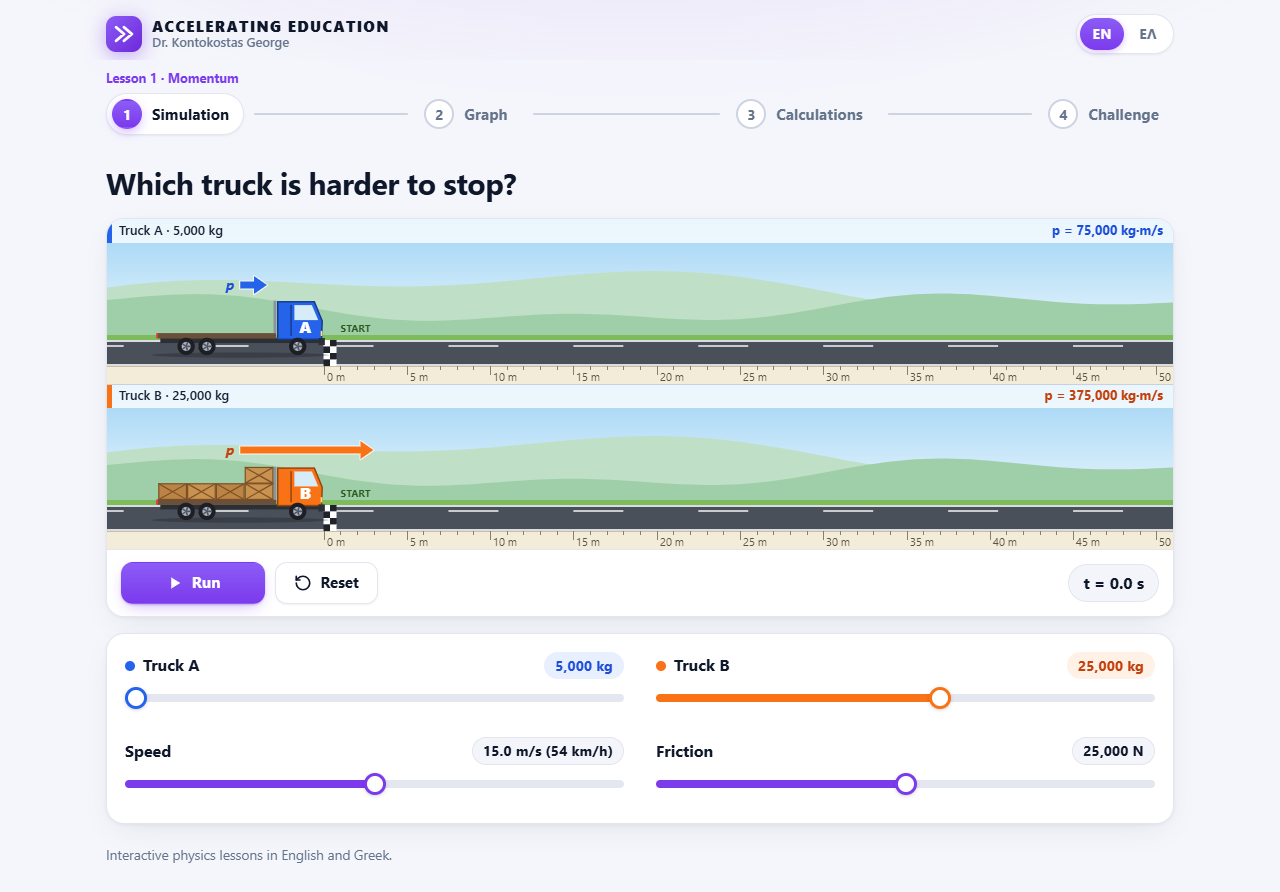
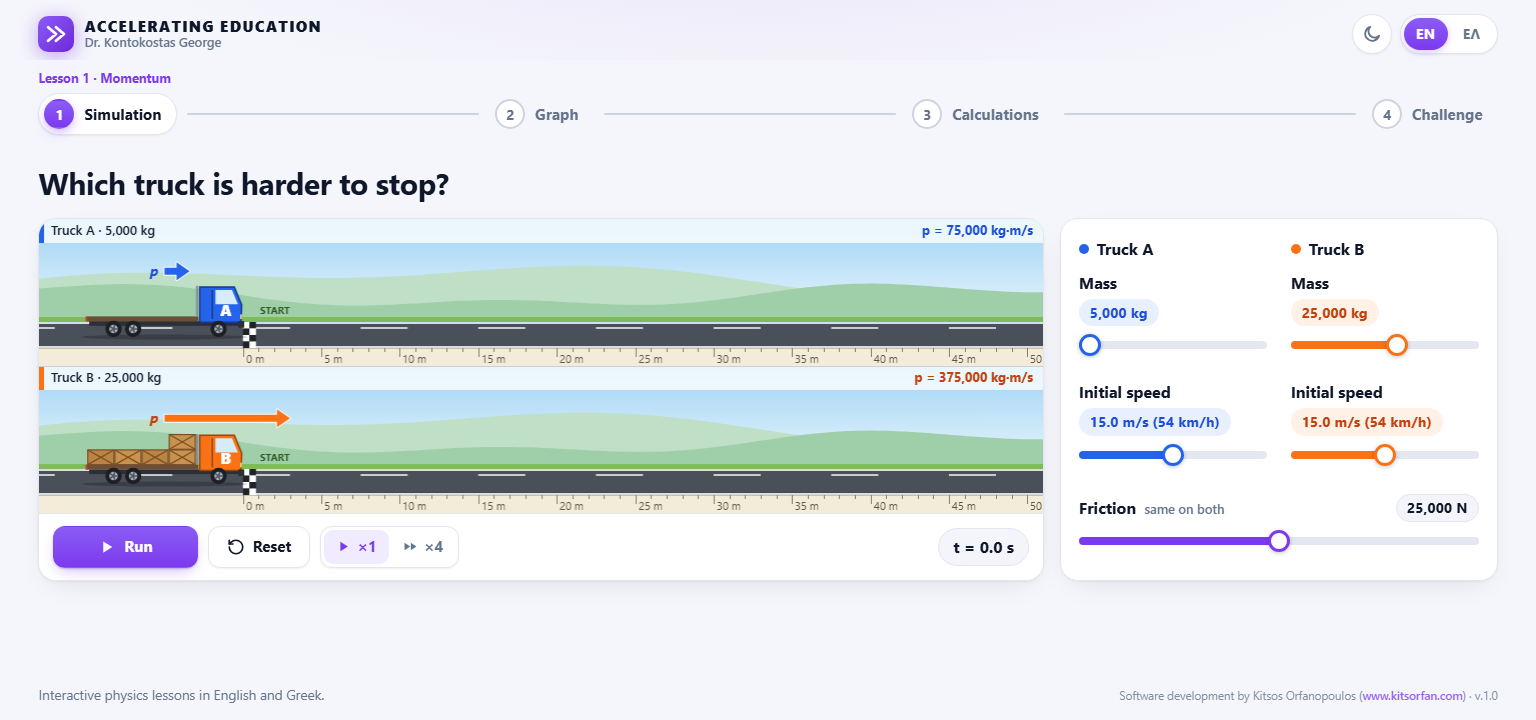
docs(readme): describe the laptop layout, the theme and the new controls
New screenshots show the five sliders beside the road, the ×1 | ×4
switch and the theme button.

diff --git a/README.md b/README.md
@@ -8,9 +8,9 @@ The pages are kept short on purpose. The teacher explains, and the page shows th
 
 ## Lesson 1: Momentum (Ορμή)
 
-Two trucks drive side by side at the same speed. One is empty and the other is loaded. Which one is harder to stop?
+Two trucks drive side by side, at the same speed to begin with. One is empty and the other is loaded. Which one is harder to stop?
 
-![Simulation step: two trucks at the start line with their momentum arrows, and four sliders](docs/screenshots/simulation.png)
+![Simulation step on a laptop screen: two trucks at the start line with their momentum arrows, and each truck's sliders beside the road](docs/screenshots/simulation.png)
 
 A stepper at the top (**Simulation · Graph · Calculations · Challenge**) moves between the steps at any time. It stays on screen while scrolling, and the address remembers the step (`#step-2`), so a link can open a specific step.
 
@@ -18,6 +18,8 @@ A stepper at the top (**Simulation · Graph · Calculations · Challenge**) move
 2. **Graph:** the same road, plus a table (m, v, p, distance, time to stop), the p–t graph, and the comparison as formulas, e.g. `pB = 5 × pA`, `tB = 5 × tA`, `xB = 5 × xA`.
 3. **Calculations:** p = m·v and F·Δt = Δp ⇒ Δt = p / F, worked out with the numbers from the simulation.
 4. **Challenge:** the same road, where friction is μ·m·g. Students predict which truck needs more road, then run it. With the trucks from the simulation at the same speed (the default), both stop together, because a = μ·g for both. **New problem** deals new trucks with different masses and speeds, so the answer can be either truck or the same distance: only the speed decides it (x = v² / 2μg).
+
+The page uses the whole screen. On a laptop (e.g. 15.6", Full HD at 125%) the sliders and the challenge's answers sit beside the road, so the road, its buttons and the panel fit without scrolling. Taller screens keep the panel under the road, and phones stack everything.
 
 ![Graph step after a run: truck A stopped at 22.5 m after 3 s, truck B at 112.5 m after 15 s](docs/screenshots/graph.png)
 
@@ -27,11 +29,13 @@ Long runs (very low friction) play faster, so a run never takes much more than 2
 
 The Greek version follows the school textbook conventions: υ for velocity, T for friction, α for acceleration, Α / Β for the trucks, and decimal commas.
 
-![Challenge step in Greek: both trucks stopped together at 38,2 m](docs/screenshots/challenge-el.png)
+![Challenge step in Greek on a laptop screen: both trucks stopped together at 38,2 m, and the answer marked correct](docs/screenshots/challenge-el.png)
 
-### Language
+### Language and theme
 
 The **EN / ΕΛ** switch is in the top right corner, and the browser remembers the choice. A link can set the language too: add `?lang=el` or `?lang=en`. Otherwise the page follows the browser's language.
+
+The moon / sun button next to it switches between the light and dark themes. Until someone picks one, the page follows the device's setting; a choice is remembered too.
 
 ## Development
 
@@ -57,16 +61,17 @@ The end-to-end tests use Playwright's Chromium. Install it once with `npx playwr
 
 ### Testing
 
-- **Unit tests** (`src/**/*.test.ts`) cover the physics: p = m·v, the impulse-momentum theorem, stopping times and distances with the same force and on the same road, no friction, and trucks at rest. They also cover the camera, the graph line, playback speed-up, step links, number formatting per language, and language detection. Another test keeps the English and Greek text in sync: same keys, same `{placeholders}`, and every key used in the markup defined.
-- **End-to-end tests** (`e2e/`) build the site and use it in a real browser. They check that it loads cleanly with no third-party requests and ships a strict CSP. They also test the four steps and the stepper, a run that continues across steps, pause and reset, no friction, the challenge, and Greek. On a phone, they check that every step fits the screen and that the stepper stays in reach.
+- **Unit tests** (`src/**/*.test.ts`) cover the physics: p = m·v, the impulse-momentum theorem, stopping times and distances with the same force and on the same road, trucks at different speeds, no friction, and trucks at rest. They also cover the camera, the graph line, playback speed-up and fast forward, step links, number formatting per language, language detection, and the theme choice (with a check that the CSS's two dark colour lists match). Another test keeps the English and Greek text in sync: same keys, same `{placeholders}`, and every key used in the markup defined.
+- **End-to-end tests** (`e2e/`) build the site and use it in a real browser. They check that it loads cleanly with no third-party requests and ships a strict CSP. They also test the four steps and the stepper, a run that continues across steps, pause and reset, fast forward, each truck's own speed, no friction, the challenge, and Greek. On a 15.6" laptop screen they check that the simulation and the challenge fit without scrolling, even with the longest result shown. On a phone, they check that every step fits the screen and that the stepper stays in reach.
 
 ### Project structure
 
 ```text
 src/
-  main.ts                  entry point: language switch, mounts the lesson
+  main.ts                  entry point: language and theme switches, mounts the lesson
   app-strings.ts           header and footer text (EN / EL)
-  style.css                theme and layout (light by default, dark when the device asks)
+  theme.ts                 light / dark theme: follows the device until someone picks one
+  style.css                colours (light and dark) and layout (phone, laptop, large screen)
   i18n/i18n.ts             language detection and switching, translations, number formatting
   lib/nice.ts              round numbers for axes and rulers
   lessons/momentum/
@@ -86,7 +91,7 @@ To add a lesson, create a folder under `src/lessons/` with the same parts, and m
 
 - **No third parties:** no analytics, trackers, cookies, CDNs or web fonts. Text uses the device's system font, which covers Greek. An end-to-end test enforces this.
 - **Strict Content-Security-Policy** in the production build: `default-src 'self'`, no inline scripts or styles, no `eval`, no plugins, no forms.
-- **Stored data:** only the language choice, in the browser's own `localStorage`.
+- **Stored data:** only the language and theme choices, in the browser's own `localStorage`.
 
 ## Deploy to GitHub Pages
 
